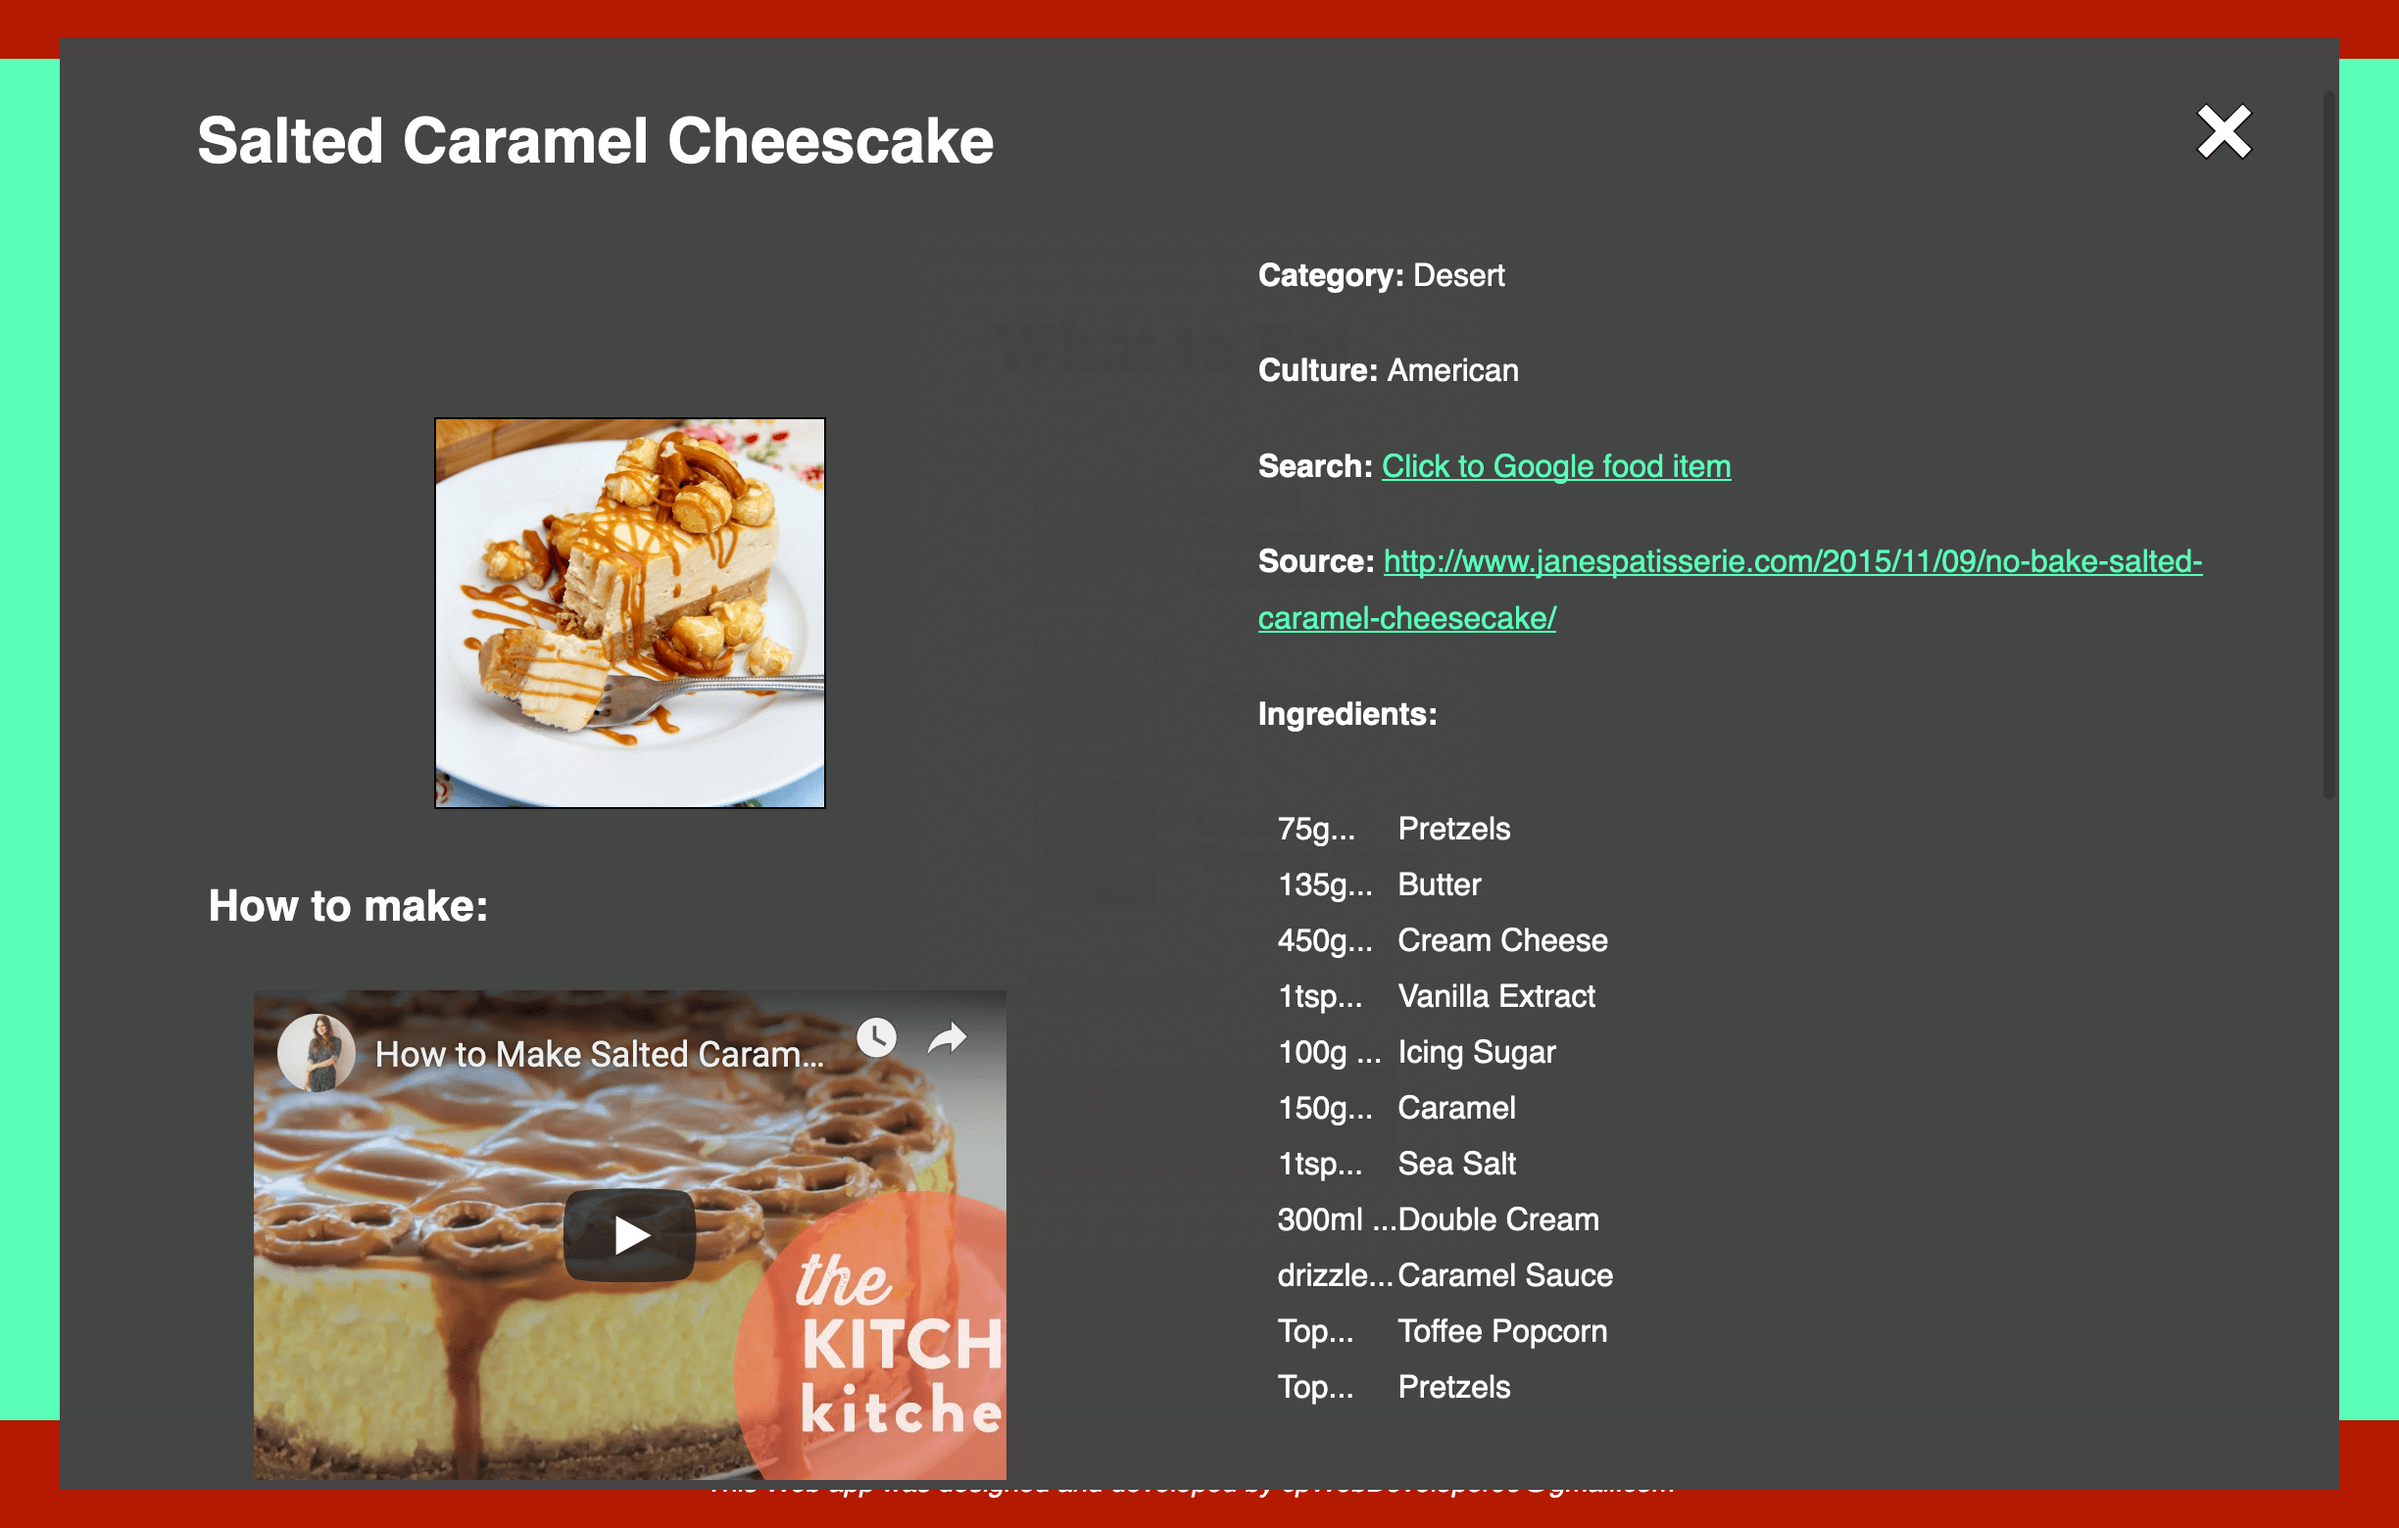
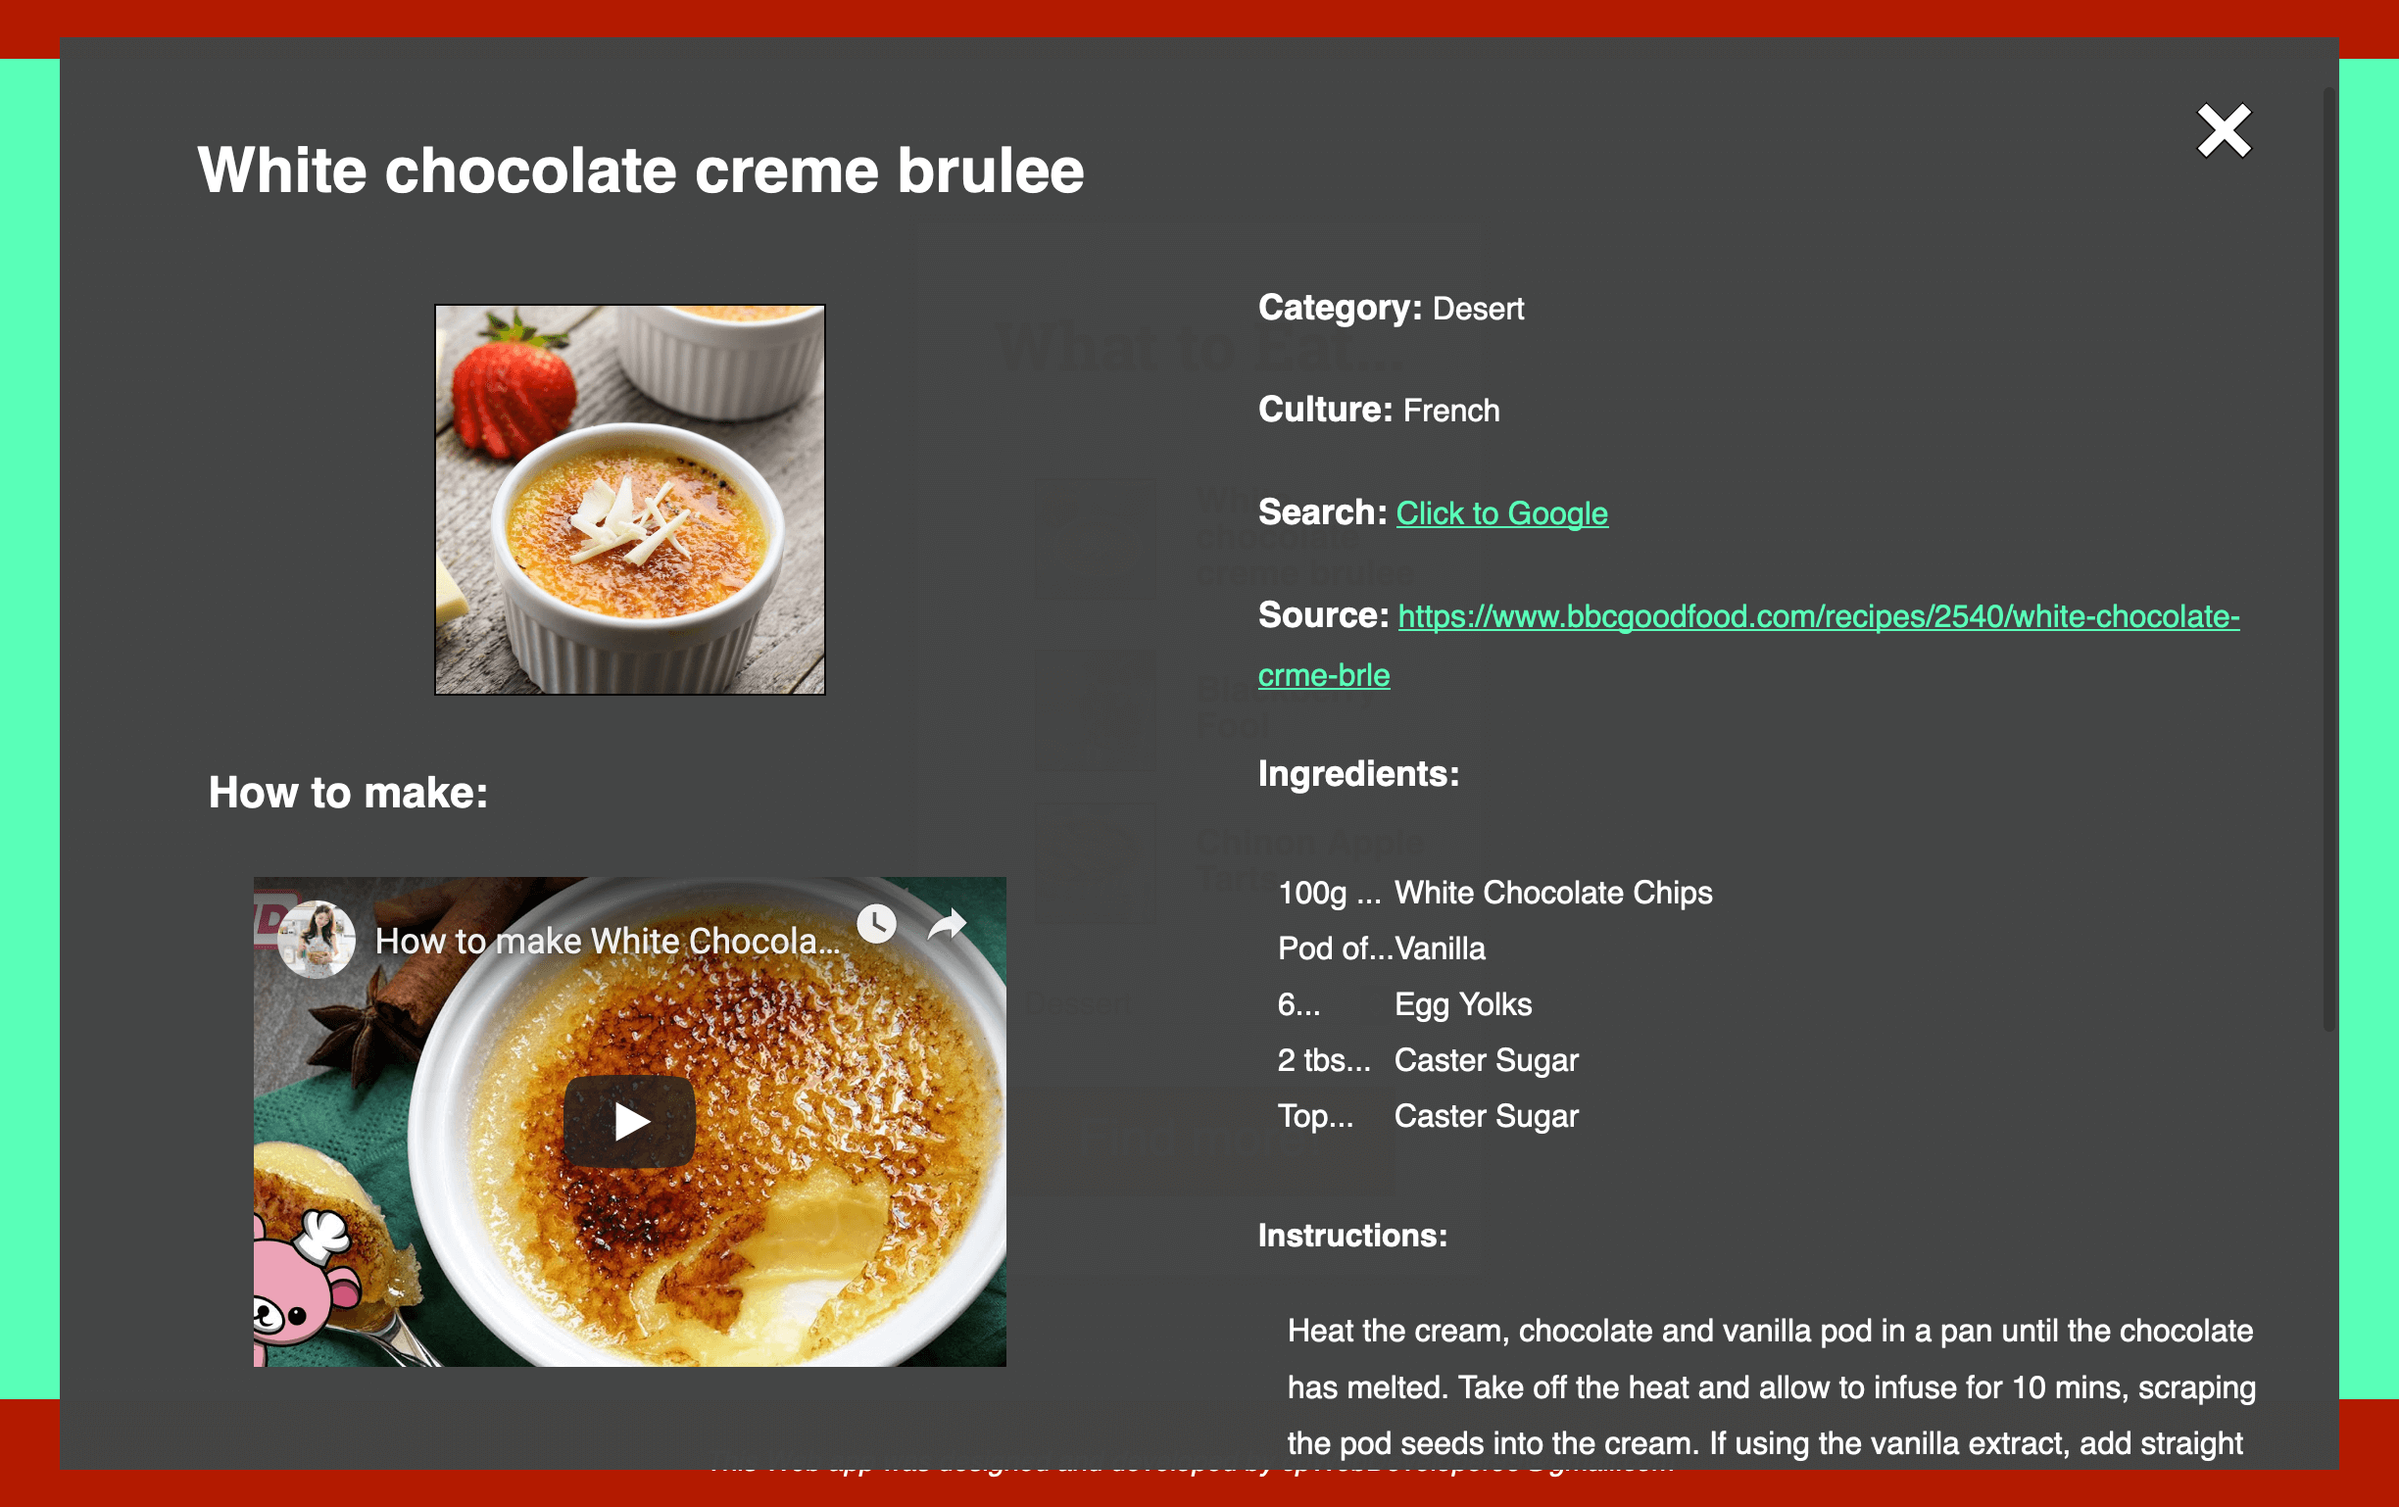
changed desktop screenshot, css: slight edits

Changed region(s): [[0.0931, 0.1873, 0.4346, 0.9675], [0.5278, 0.156, 0.9314, 0.9675], [0.0621, 0.0624, 0.4657, 0.1248]]

diff --git a/index.css b/index.css
@@ -336,7 +336,11 @@ footer p {
   #food-image {
     width: 200px;
     height: auto;
-    margin-top: 96px;
+    margin-top: 23px;
+  }
+
+  #food-image:hover {
+    cursor: default;
   }
 
   #food-details {
